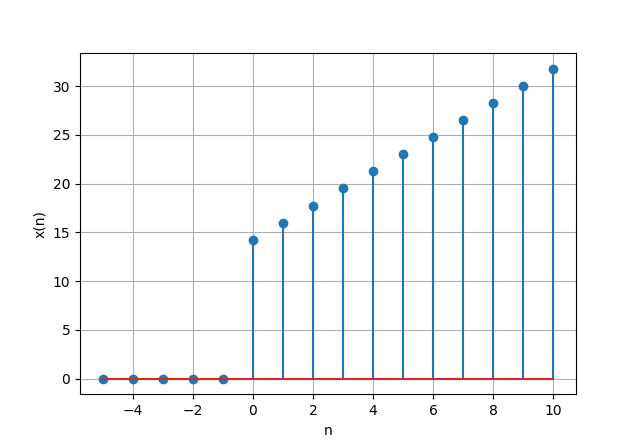
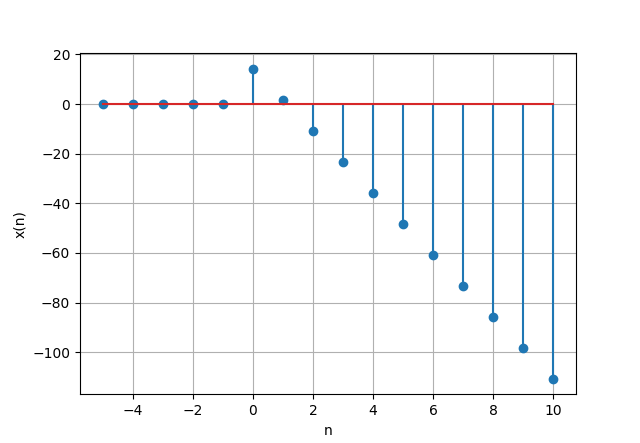
Add files via upload

diff --git a/11.9.3.32/discrete1.tex b/11.9.3.32/discrete1.tex
@@ -141,11 +141,11 @@ x_1 + x_2 &= 16 \\
 \implies x_2 &= 8-\sqrt{39} 
 \end{align}
 
-AP : $[x_1 , x_2]$ 
+AP : $[x_1 , x_2-x_1]$ 
 \begin{align}
-x\brak{n} &= \brak{8+\sqrt{39} + n\brak{8-\sqrt{39}}}u\brak{n} \\
-X\brak{z} &= \frac{8+\sqrt{39}}{1 - z^{-1}} + \frac{\brak{8-\sqrt{39}}\cdot z^{-1}}{\brak{1 - z^{-1}}^2}  \quad |z| > 1 \\
-\implies X\brak{z} &= \frac{8+\sqrt{39}-2\sqrt{39}\cdot{z^{-1}}}{\brak{1 - z^{-1}}^2} \quad |z| > 1
+x\brak{n} &= \brak{8+\sqrt{39} + n\brak{-2\sqrt{39}}}u\brak{n} \\
+X\brak{z} &= \frac{8+\sqrt{39}}{1 - z^{-1}} + \frac{\brak{-2\sqrt{39}}\cdot z^{-1}}{\brak{1 - z^{-1}}^2}  \quad |z| > 1 \\
+\implies X\brak{z} &= \frac{8+\sqrt{39}-\brak{8+3\sqrt{39}}\cdot{z^{-1}}}{\brak{1 - z^{-1}}^2} \quad |z| > 1
 \end{align}
 
 GP : $[x_1 , \frac{x_2}{x_1}]$

diff --git a/11.9.3.32/codes/dap.c b/11.9.3.32/codes/dap.c
@@ -12,7 +12,7 @@ int main() {
     }
     
     double x0 = 8 + sqrt(39);
-    double d = 8 - sqrt(39);
+    double d =  -2*sqrt(39);
     
     for (int n = -5; n <= 10; n++) {
         double xn = (x0 + n * d) * (n >= 0);
